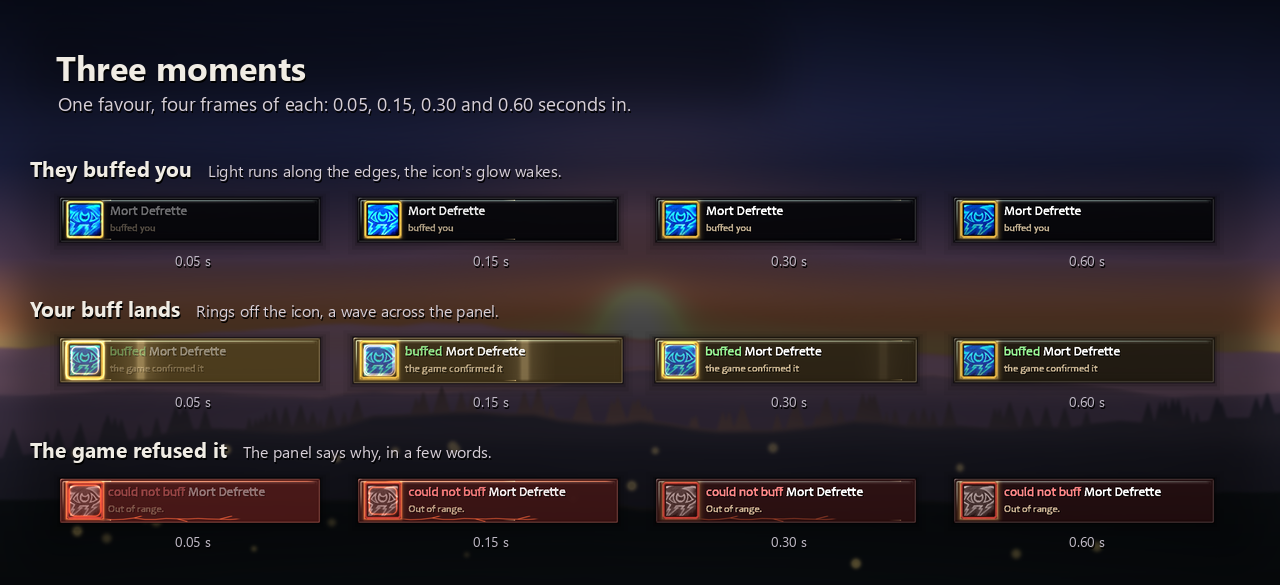
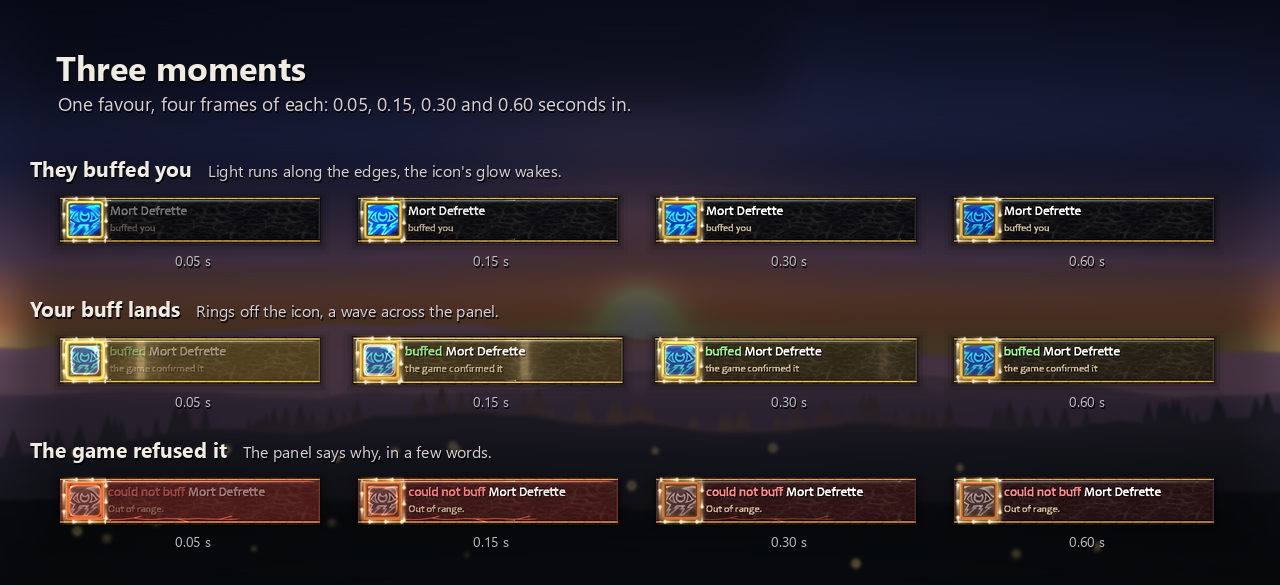
1.11.19's notes, short and in sections; the listing images redrawn for nine looks

diff --git a/CHANGELOG.md b/CHANGELOG.md
@@ -2,154 +2,51 @@
 
 ## 1.11.19
 
-- **In a fight, each press moves on to the next person.** A fight locks the
-  prompt, and until now it stayed on whoever it showed as the fight began:
-  every press cast at that one person again, and nobody else in your group
-  was reached until the fight was over. Now Manners hands the prompt everybody
-  who still needed a buff as the fight began, and each press of the prompt or
-  its key casts at the next of them in turn, round and round; the second line
-  says which of how many. *In a fight, each press moves on to the next
-  person*, on *Look* under *Hide the prompt in combat*, switches it off. The
-  Manners macro on an action bar keeps to the one person: the game leaves a
-  macro no other way.
-- **Everybody's first buff before anybody's second.** A priest or a druid in
-  a party was kept on the first person for every buff in turn (Fortitude,
-  then Divine Spirit, then Shadow Protection) while the others stood there
-  with nothing. Now the prompt gives everybody the first buff they are
-  missing, then goes round again for the next. Among people offered for the
-  same reason, somebody read as missing a buff also comes before somebody
-  whose buffs the game would not show, and both before a top-up of a buff
-  that is still running. A top-up of your own buff no longer comes ahead of a
-  party member who has none; your own buff when it is missing keeps its
-  place. A fight's presses step through the same order.
-- **A favour is not returned with a buff they already have.** Somebody who
-  buffs you and already wears everything you could give them, with time to
-  spare, is no longer put on the prompt to have it refreshed: that was mana
-  spent on nothing, and a thank-you is enough. It no longer matters who cast
-  the buff they wear (until now only one known to be your own was spared).
-  The favour is let go at once: the ledger says *Let go: they already have
-  your buff* and does not count it among the favours to return, and the chat
-  line says there is nothing to return. A buff they are missing, or one about
-  to run out, is still offered back as before, and so is somebody whose buffs
-  the game hides. If you liked the refresh, *Refresh a buff they already
-  have, to return a favour* on *When to offer*, under *Buffing back*, brings
-  it back.
-- **A new look: Fel.** A warlock's, and the Burning Legion's: a slab of black
-  felsteel, cracked, with fel fire showing through the cracks and burning
-  along its foot; your spell in a summoning circle, eight demonic runes cut
-  round it and a demon's horns over it; and at the far end a soul shard held
-  in a claw of two more horns. The band round the icon carries the reason's
-  colour; with the marker on *Stripe* or *Both* the shard and a vein along
-  the upper rim carry it too, and otherwise the shard keeps a soul shard's
-  own violet. When somebody buffs you the runes light one after another;
-  while you owe them the circle turns; when your buff lands a gout of fel
-  flame leaps from the circle and a shadow bolt flies the length of the slab
-  and strikes the shard; a refusal gutters the fire to a glow, puts the
-  runes out and leaves smoke. At rest the fire burns, the fire behind the
-  cracks flows and embers rise; *Animations* on *Calm* stills all of it, and
-  a fight puts the fire out. The icon is always round on this look.
-- **Four looks are retired: Framed, Luxe, Arcane and Toast.** Each was too
-  like one of its neighbours, and every look on the Look page should be its
-  own. If your prompt wore one of them, it now wears the nearest look that
-  remains: Framed and Luxe become **Glass**, Arcane becomes **Archmage**, and
-  Toast becomes **Ribbon**. A line in chat tells you so once, a few seconds
-  after you log in, and nothing else about your settings changes. Eight of
-  the old looks remain, and Fel makes nine, each a card under Look > *Panel
-  style*: Glass, Minimal, Ribbon, Letter, Leather, Forge, Archmage,
-  Lightbringer and Fel.
-- **Shadow Protection is off until you tick it** (Classic Era, WoW Forever,
-  Burning Crusade). It was offered to you, your whole party and every
-  passer-by, and again every ten minutes. It now has to be switched on, on
-  *Who to buff*, as a warlock's Detect Invisibility is. **If you want it
-  offered, tick it there.**
-- **Unending Breath only where it is wanted** (Classic Era, WoW Forever,
-  Burning Crusade). A warlock was offered it for every party member and
-  passer-by on dry land. It is now offered only to return a favour and to
-  somebody who asks for it by name in chat; on yourself, as before, only
-  while you swim.
-- **Blessing of Might is no longer offered to mages, warlocks and priests**
-  unless you switch that back: *Don't offer Blessing of Might to mages,
-  warlocks and priests*, on *Who to buff*, is now on by default. Somebody who
-  asks for it by name is still given it.
-- **Nobody is offered a buff they are too low a level for.** The game refuses
-  a buff on somebody more than ten levels under its lowest rank ("Target is
-  too low level"): Blessing of Kings under level 10, Divine Spirit and Shadow
-  Protection under 20. Such a buff is no longer offered, and the next one that
-  does reach them is: a paladin now gives a low-level warrior Might instead
-  of pressing Kings at them in vain.
-- **A favour from a low-level player is returned at a rank that lands.** With
-  no nameplate or target on them, the prompt cast your highest rank at
-  somebody who buffed you, which the game refuses on a low level. Their level
-  is now remembered from the moment they buffed you.
-- **WoW Forever: camping buffs are read.** Boosted Stamina, Boosted Intellect
-  and Boosted Spirit, which a First Aid Kit, an Incense Candle and a Faction
-  Banner give for an hour, cannot be worn together with Power Word: Fortitude,
-  Arcane Intellect and Divine Spirit, and the game refuses the weaker of the
-  two. Somebody wearing one worth at least what your rank would give is no
-  longer offered your buff ("A more powerful spell is already active", again
-  every ten minutes); one worth less is cast over, as before.
-- **WoW Forever: a group buff counts everybody it reaches.** Arcane
-  Brilliance, the Prayers and Gift of the Wild reach your whole party and raid
-  within a hundred yards there. People standing further off than a single
-  buff reaches now count towards *When this many need it*, so one cast covers
-  them instead of a single buff for each as they walk up. It is still aimed at
-  somebody within reach of the single buff.
-- **A group buff is never aimed at somebody too low for it**, and members too
-  low for it do not count towards it; they are offered the single buff at a
-  rank that lands. When the game refuses a group buff all the same, the
-  single buff is no longer held off the whole party for ten minutes.
-- **A weaker group buff no longer counts as covered.** A level 60 wearing the
-  first rank of Gift of the Wild or Prayer of Fortitude from a lower-level
-  caster is offered your stronger rank, as somebody wearing a weaker single
-  rank already was.
-- **A paladin whose blessing the game refused offers the next one.** After "A
-  more powerful spell is already active" or "Target is too low level" for one
-  blessing, that person was offered no blessing at all for ten minutes. Only
-  the refused one is held back now.
-- **A warrior's shout when nobody of the group is near.** With *Remind me of
-  my shout when I'm alone* on, you are also reminded of Battle Shout in a
-  group when nobody in it is close enough to be offered it.
-- **"Buff pls" gets the buffs that suit them.** A plain request that names no
-  buff no longer brings a warrior Divine Spirit or a mage Blessing of Might;
-  naming the buff still does.
-- **Thorns: Tanks only means tanks only.** With *Offer Thorns to: Tanks only*,
-  passers-by were still offered Thorns, because the choice only narrowed your
-  own group. Now it offers Thorns to the tanks of your group and to nobody
-  outside it, passers-by and people who buffed you included (they are still
-  offered Mark of the Wild when they lack it). Somebody who asks for Thorns
-  by name in chat is still offered it. The old behaviour is a choice of its
-  own, **Tanks, and anyone outside my group**. If you had picked Tanks only,
-  you now have the strict one.
-- **Which pet: your pets by name.** *Which pet*, under *Companion pet* on
-  *Who to buff*, now lists every pet in your pet journal under its three
-  choices, so Manners brings out the one you pick. A pet you gave a name of
-  your own is listed by that name. WoW Forever.
-- **The Ribbon look reads at its size.** Its reason line, its list and its
-  tags are now in the game's standard lettering, pale on the cloth; the name
-  keeps the banner's serif. The serif's small letters were too fine to read
-  at the size of the second line.
-- The line at the foot of the options window names the character who makes
-  Manners, and nothing else.
-- **The options window, dressed.** A gilt moulding with a boss on each corner
-  runs round it, a beaded gilt rail sits under the header and over the footer,
-  its buttons are set in a rim of gold, a gilt stud stands before each
-  section's title, and the page that is open has a band of light and a stud
-  of its own in the sidebar.
-- **Forge, alive at rest.** A seam of molten metal flickers along the bottom
-  strap and lights the iron above it, embers rise off it across the plate,
-  and a glint crosses the top strap now and then. When your buff lands a
-  fountain of sparks is thrown up off the bezel, and somebody new on the
-  plate is greeted by a glint. On *Calm* and in a fight the forge is cold.
-- **Glass, the default look, redrawn after the game's own action bar.** A
-  beaded gilt rail runs along the pane's top and bottom, and light drifts
-  inside the glass, slowly, under the words. While you owe somebody, the
-  border of light the game runs round a spell that is ready runs round your
-  icon, in their colour. When your buff lands a star winks on the icon's
-  corner. *Gryphons at the ends*, on *Look* (off until you switch it on), sits
-  a gilt gryphon at each end of the pane, taller than it, its eye an ember in
-  the reason's colour: the eyes burn while you owe somebody, and the gilt
-  catches the light when a favour comes in and flashes when your buff lands.
-  On *Calm* nothing moves, and in a fight the lights go out.
+### In a fight
+- **Each press moves on to the next person.** The prompt used to stay on one
+  person for the whole fight. It now steps through everybody who needed a buff
+  as the fight began; the second line says which of how many. Switch:
+  *In a fight, each press moves on to the next person* (Look).
+
+### Who gets what
+- **Everybody's first buff before anybody's second.** No more Fortitude, then
+  Spirit, then Shadow Protection on one person while the rest wait.
+- **No refresh for somebody who already has your buff.** Their favour is let
+  go with a thank-you. Switch: *Refresh a buff they already have, to return a
+  favour* (When to offer).
+- **No buff they are too low a level for.** The next one that lands is offered
+  instead (a low-level warrior gets Might, not Kings). A favour from a
+  low-level player is returned at a rank that lands.
+- **A refused blessing no longer holds the others off.**
+- **Group buffs:** never aimed at somebody too low for them, and a refused one
+  no longer blocks the single buff for the party. A weaker group rank no
+  longer counts as covered.
+- **"Buff pls"** no longer brings a warrior Divine Spirit.
+- **Warriors:** reminded of Battle Shout in a group when nobody is near
+  (with *Remind me of my shout when I'm alone* on).
+- **Thorns "Tanks only" means it:** nobody outside the group. The old
+  behaviour is now *Tanks, and anyone outside my group*.
+
+### New defaults
+- **Shadow Protection** is off until you tick it on *Who to buff*.
+- **Unending Breath** only to return a favour or when asked for by name.
+- **Blessing of Might** is no longer offered to mages, warlocks and priests.
+
+### WoW Forever
+- **Camping buffs** (First Aid Kit, Incense Candle, Faction Banner) hold your
+  Fortitude, Intellect or Spirit off when they are worth as much.
+- **Group buffs** count everybody they reach, not only those in single range.
+- **Which pet** lists your journal's pets by name.
+
+### Looks
+- **New: Fel**, a warlock's: felsteel, fel fire, a summoning circle.
+- **Glass** redrawn after the game's action bar. Gilt gryphons at the ends
+  are a switch on *Look*, off by default.
+- **Forge** comes alive at rest: a molten seam and rising embers.
+- **Retired:** Framed and Luxe become Glass, Arcane becomes Archmage, Toast
+  becomes Ribbon. Chat tells you once.
+- **Ribbon**'s second line is readable now.
+- **The options window** is dressed in gilt.
 
 ## 1.11.18
 
